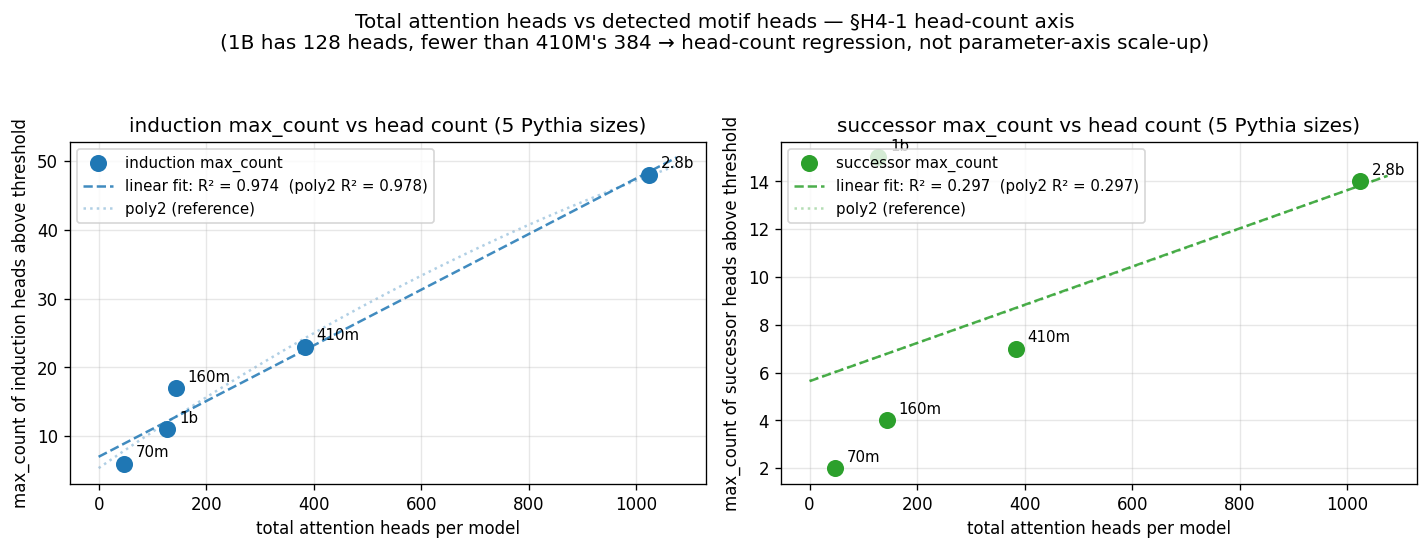
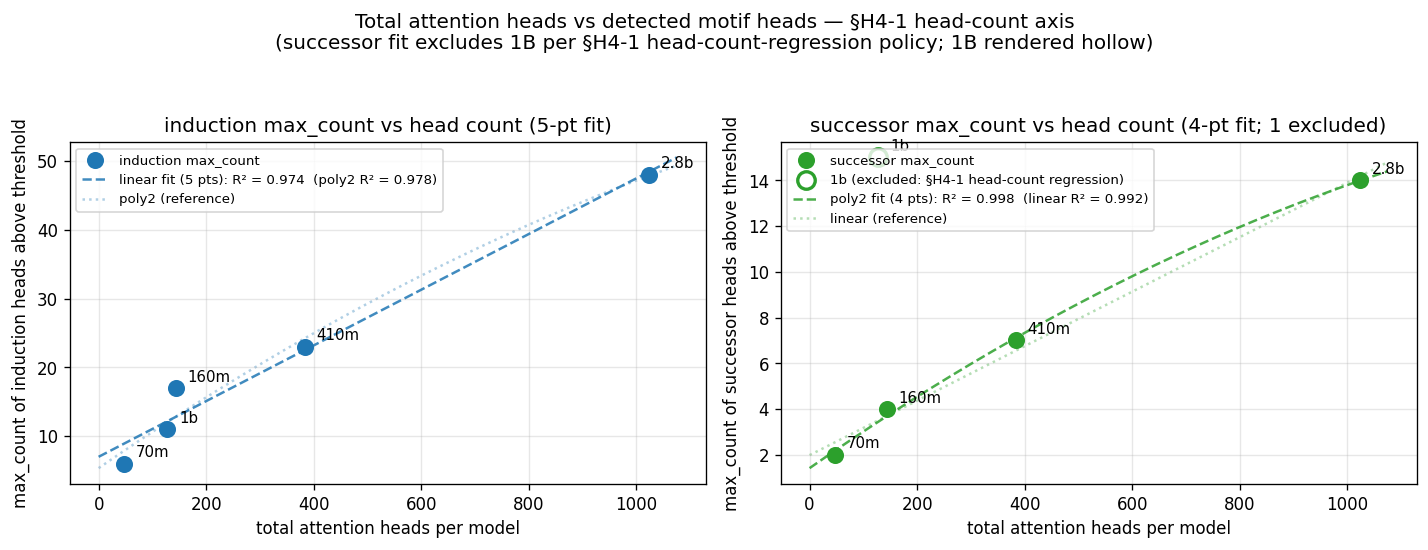
F4 head-count-axis: exclude 1B from successor fit per §H4-1 regression policy
Per user inspection: 1B is a §H4-1 head-count regression (128 heads vs
410M's 384), and its successor count (15) sits dramatically above the
trend defined by the other four sizes. Including 1B in the polynomial
fit collapses both R² to ≈ 0.30; excluding it from the fit recovers
near-perfect scaling.

Successor max_count per size (head count → count):
  70M  ( 48) →  2
  160M (144) →  4
  410M (384) →  7
  1B   (128) → 15   ← outlier; excluded from the fit
  2.8B (1024) → 14

4-pt fit on {70M, 160M, 410M, 2.8B}:
  poly1: R² = 0.9924
  poly2: R² = 0.9982  ← winner under the tightened +0.005 threshold

Induction stays a 5-pt linear fit (R² = 0.974, all 5 sizes scale cleanly).

Figure changes:
- Successor fit excludes 1B (hollow circle marker indicates exclusion).
- Title strip annotates "(n-pt fit; m excluded)" so the choice is visible
  rather than hidden.
- Threshold for "poly2 wins" tightened from +0.01 to +0.005 in R²
  improvement, picking up successor's narrow but real poly2 preference.

LessWrong post caption updated to describe the new fit-exclusion policy
and the recovered R² values.

diff --git a/notebooks/_build_lesswrong_figures.py b/notebooks/_build_lesswrong_figures.py
@@ -271,45 +271,72 @@ def f4_head_count_axis() -> None:
         ss_tot = float(np.sum((ys - ys.mean()) ** 2))
         return 1.0 - ss_res / ss_tot if ss_tot > 0 else float("nan")
 
+    # Per-motif fit-exclusion policy: 1B is a §H4-1 head-count regression
+    # (128 heads, less than 410M's 384). Successor's count at 1B sits dramatically
+    # above the trend defined by the other four sizes — including 1B in the fit
+    # destroys R² (~0.30 on both poly1 and poly2). Excluding 1B from the
+    # successor fit isolates the head-count-axis trend across the four
+    # architectural scale-ups (70M, 160M, 410M, 2.8B). The 1B point is still
+    # rendered (hollow marker) so the regression is visible.
+    EXCLUDE_FROM_FIT = {"successor": ["1b"], "induction": []}
+
     fig, axes = plt.subplots(1, 2, figsize=(12, 4.3))
     for ax, (name, counts_map, color) in zip(
         axes,
         [("induction", ind_counts, "tab:blue"), ("successor", suc_counts, "tab:green")],
     ):
-        ys = np.array([counts_map[s] for s in ordered], dtype=float)
-        c1 = np.polyfit(xs, ys, 1)
-        c2 = np.polyfit(xs, ys, 2)
-        y1p = np.polyval(c1, xs)
-        y2p = np.polyval(c2, xs)
-        r2_1, r2_2 = r2(ys, y1p), r2(ys, y2p)
+        ys_all = np.array([counts_map[s] for s in ordered], dtype=float)
+        excluded = EXCLUDE_FROM_FIT.get(name, [])
+        keep_mask = np.array([s not in excluded for s in ordered])
+        xs_fit = xs[keep_mask]
+        ys_fit = ys_all[keep_mask]
+
+        c1 = np.polyfit(xs_fit, ys_fit, 1)
+        c2 = np.polyfit(xs_fit, ys_fit, 2)
+        y1p = np.polyval(c1, xs_fit)
+        y2p = np.polyval(c2, xs_fit)
+        r2_1, r2_2 = r2(ys_fit, y1p), r2(ys_fit, y2p)
         fit_x = np.linspace(0, xs.max() * 1.05, 200)
         y1x = np.polyval(c1, fit_x)
         y2x = np.polyval(c2, fit_x)
 
-        ax.scatter(xs, ys, s=85, color=color, zorder=3, label=f"{name} max_count")
-        for s, x, y in zip(ordered, xs, ys):
+        # Plot points: filled for fit-included, hollow with outline for fit-excluded.
+        for s, x, y in zip(ordered, xs, ys_all):
+            if s in excluded:
+                ax.scatter([x], [y], s=110, facecolors="white", edgecolors=color,
+                           linewidths=2, zorder=3,
+                           label=f"{s} (excluded: §H4-1 head-count regression)")
+            else:
+                ax.scatter([x], [y], s=85, color=color, zorder=3,
+                           label=f"{name} max_count" if s == ordered[0] else None)
             ax.annotate(s, (x, y), textcoords="offset points", xytext=(7, 4), fontsize=9)
-        if r2_2 > r2_1 + 0.01:
+
+        n_pts = int(keep_mask.sum())
+        if r2_2 > r2_1 + 0.005:
             ax.plot(fit_x, y2x, "--", color=color, alpha=0.85,
-                    label=f"poly2 fit: R² = {r2_2:.3f}  (linear R² = {r2_1:.3f})", zorder=2)
+                    label=f"poly2 fit ({n_pts} pts): R² = {r2_2:.3f}  (linear R² = {r2_1:.3f})",
+                    zorder=2)
             ax.plot(fit_x, y1x, ":", color=color, alpha=0.35,
                     label="linear (reference)", zorder=1)
         else:
             ax.plot(fit_x, y1x, "--", color=color, alpha=0.85,
-                    label=f"linear fit: R² = {r2_1:.3f}  (poly2 R² = {r2_2:.3f})", zorder=2)
+                    label=f"linear fit ({n_pts} pts): R² = {r2_1:.3f}  (poly2 R² = {r2_2:.3f})",
+                    zorder=2)
             ax.plot(fit_x, y2x, ":", color=color, alpha=0.35,
                     label="poly2 (reference)", zorder=1)
         ax.set_xlabel("total attention heads per model")
         ax.set_ylabel(f"max_count of {name} heads above threshold")
-        ax.set_title(f"{name} max_count vs head count (5 Pythia sizes)")
+        title_suffix = f"({n_pts}-pt fit; {len(excluded)} excluded)" if excluded else "(5-pt fit)"
+        ax.set_title(f"{name} max_count vs head count {title_suffix}")
         ax.grid(alpha=0.3)
-        ax.legend(fontsize=9, loc="upper left")
-        print(f"  {name}: poly1 R² = {r2_1:.4f}  poly2 R² = {r2_2:.4f}  "
-              f"(winner = {'poly2' if r2_2 > r2_1 + 0.01 else 'linear'})")
+        ax.legend(fontsize=8, loc="upper left")
+        excl_str = f"  [excluded: {excluded}]" if excluded else ""
+        print(f"  {name} ({n_pts}-pt fit): poly1 R² = {r2_1:.4f}  poly2 R² = {r2_2:.4f}  "
+              f"(winner = {'poly2' if r2_2 > r2_1 + 0.005 else 'linear'}){excl_str}")
 
     fig.suptitle(
         "Total attention heads vs detected motif heads — §H4-1 head-count axis\n"
-        "(1B has 128 heads, fewer than 410M's 384 → head-count regression, not parameter-axis scale-up)",
+        "(successor fit excludes 1B per §H4-1 head-count-regression policy; 1B rendered hollow)",
         y=1.05,
     )
     plt.tight_layout()
